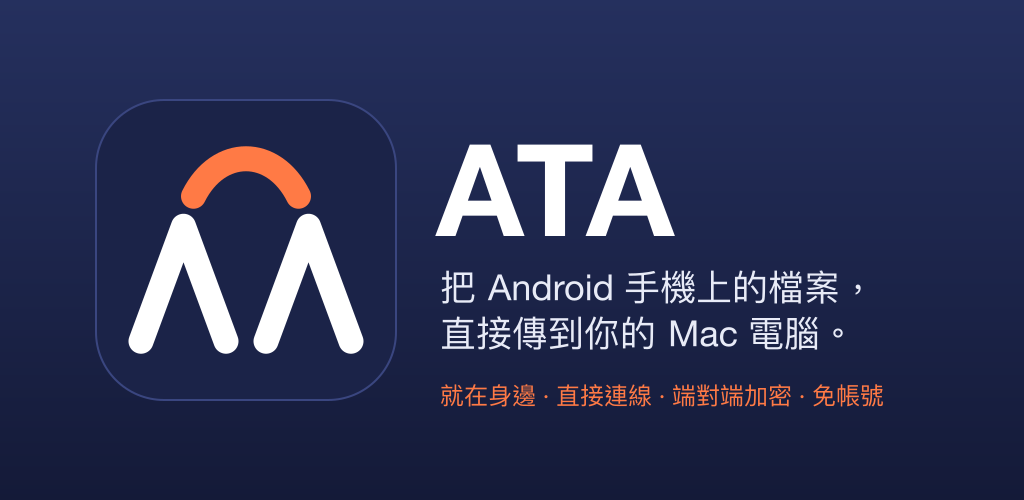
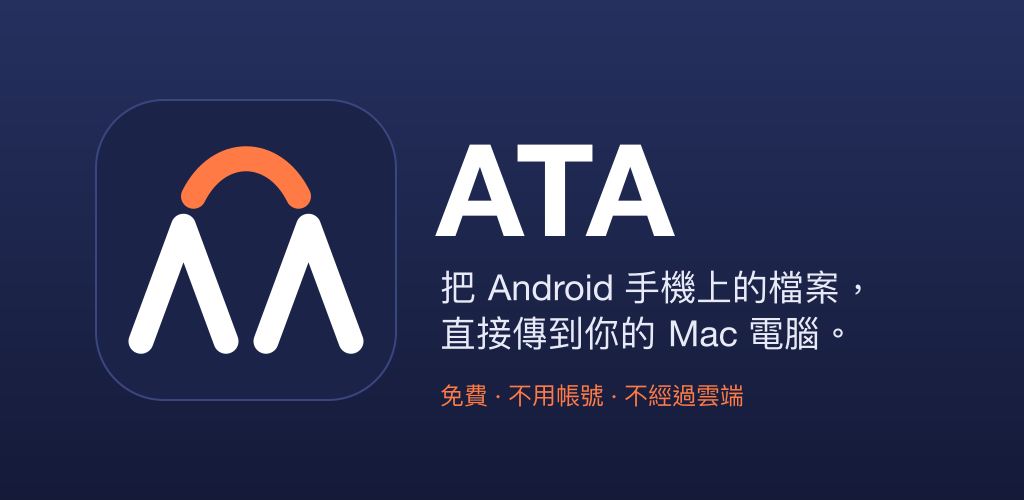
site: download-window picture, what Google counts, plainer preview images
- Install (both languages): real screenshot of the download window and a
  plain warning not to open ATA from there or from Downloads (it can't
  start at login and the Mac may keep asking).
- Beta: Google counts days in the test, not installs.
- Social preview images use the plain tagline (免費 · 不用帳號 · 不經過雲端).

Claude-Session: https://claude.ai/code/session_0134RfPhTMW4GLPVML5omtNk

Changed region(s): [[0.4062, 0.75, 0.875, 0.81]]

diff --git a/site/zh-tw/install/index.html b/site/zh-tw/install/index.html
@@ -40,8 +40,10 @@
   <h2 id="s2">2. 把 ATA 放進「應用程式」</h2>
   <ol class="big-steps">
     <li>打開剛下載的檔案（「下載項目」裡的 <strong>ATA-1.0.2.dmg</strong>）。</li>
-    <li>會出現一個小視窗，裡面有 ATA 圖示和「<strong>應用程式</strong>」檔案夾。<strong>把 ATA 拖到「應用程式」上。</strong></li>
+    <li>會出現一個小視窗，裡面有 ATA 圖示和「<strong>應用程式</strong>」檔案夾。<strong>把 ATA 拖到「應用程式」上。</strong>
+      <figure class="shot"><img src="../../assets/img/dmg-window.png" width="350" height="145" alt="下載的視窗：左邊是應用程式檔案夾，右邊是 ATA 圖示。" style="max-width:350px"><figcaption>實機截圖（英文介面，「Applications」就是「應用程式」）。把右邊的 ATA 拖到左邊的檔案夾上。</figcaption></figure></li>
   </ol>
+  <div class="tip">請不要直接在這個視窗或「下載項目」裡打開 ATA。看起來好像能用，但它沒辦法在開機時自動打開，Mac 也可能一直重複問同樣的問題。一定要先拖到「應用程式」，再從那裡打開。</div>
 </section>
 
 <section aria-labelledby="s3">

diff --git a/site/install/index.html b/site/install/index.html
@@ -41,8 +41,10 @@
   <h2 id="s2">2. Move ATA into Applications</h2>
   <ol class="big-steps">
     <li>Open the file you just downloaded (<strong>ATA-1.0.2.dmg</strong>, in your Downloads folder).</li>
-    <li>A small window opens with the ATA icon and an <strong>Applications</strong> folder. <strong>Drag ATA onto Applications.</strong></li>
+    <li>A small window opens with the ATA icon and an <strong>Applications</strong> folder. <strong>Drag ATA onto Applications.</strong>
+      <figure class="shot"><img src="../assets/img/dmg-window.png" width="350" height="145" alt="The download window: an Applications folder on the left and the ATA icon on the right." style="max-width:350px"><figcaption>Real screenshot. Drag the ATA icon onto the Applications folder.</figcaption></figure></li>
   </ol>
+  <div class="tip">Don't open ATA from this window or from your Downloads folder. It may seem to work, but it can't start by itself when your Mac starts, and your Mac may keep asking the same questions. Drag it into Applications first, then open it from there.</div>
 </section>
 
 <section aria-labelledby="s3">

diff --git a/site/beta/index.html b/site/beta/index.html
@@ -54,7 +54,7 @@
     <li>Open the opt-in link while signed in to the same Google account, and choose to become a tester.</li>
     <li>Install ATA from the Google Play page link. It's free, like the public version will be.</li>
     <li>Install the free Mac app if you haven't yet (<a href="../install/">install it on your Mac</a>), then pair your phone.</li>
-    <li><strong>Stay opted in for at least 14 days in a row.</strong> If you leave the test and rejoin, your 14 days start over. Please keep ATA installed during that time too.</li>
+    <li><strong>Stay in the test for at least 14 days in a row.</strong> What Google counts is how long you stay in the test, not when you installed. If you leave the test and rejoin, your 14 days start over. Please keep ATA installed during that time too, so you can try it.</li>
   </ol>
   <p class="fine">There's no fixed date for the public release. It depends on the test and on Google's review afterwards.</p>
 </section>

diff --git a/site/zh-tw/beta/index.html b/site/zh-tw/beta/index.html
@@ -50,7 +50,7 @@
     <li>用同一個 Google 帳號打開加入連結，選擇成為測試人員。</li>
     <li>從 Google Play 頁面的連結安裝 ATA。測試版免費，正式版也一樣免費。</li>
     <li>如果還沒裝 Mac 版，先照著<a href="../install/">安裝說明</a>在 Mac 上裝好，再配對手機。</li>
-    <li><strong>請連續 14 天以上保持參加測試。</strong>中途退出再重新加入的話，14 天會重新計算。這段期間也請不要移除 ATA。</li>
+    <li><strong>請連續 14 天以上保持參加測試。</strong>Google 算的是你留在測試裡的天數，不是安裝了多久。中途退出再重新加入的話，14 天會重新計算。這段期間也請不要移除 ATA，才能實際試用。</li>
   </ol>
   <p class="fine">正式上架沒有固定日期，要看測試情況和之後 Google 的審查。</p>
 </section>
